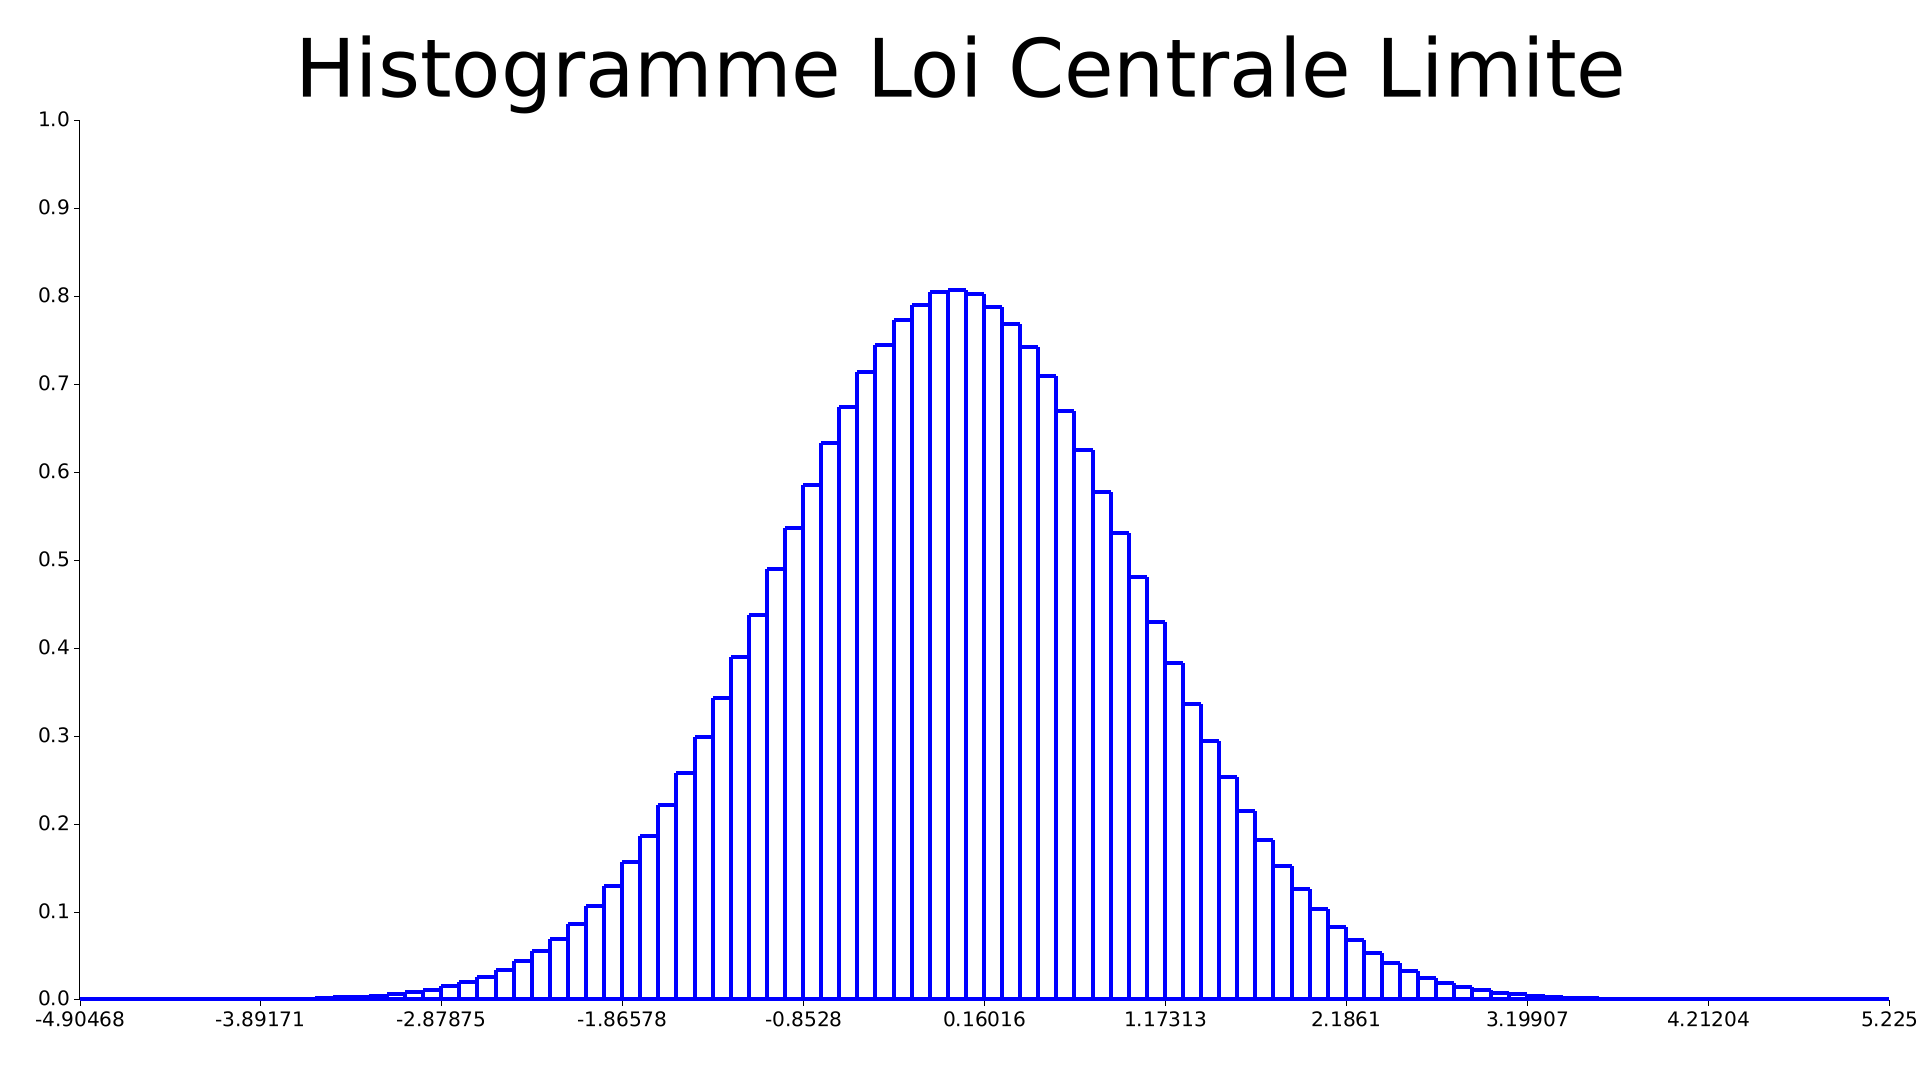
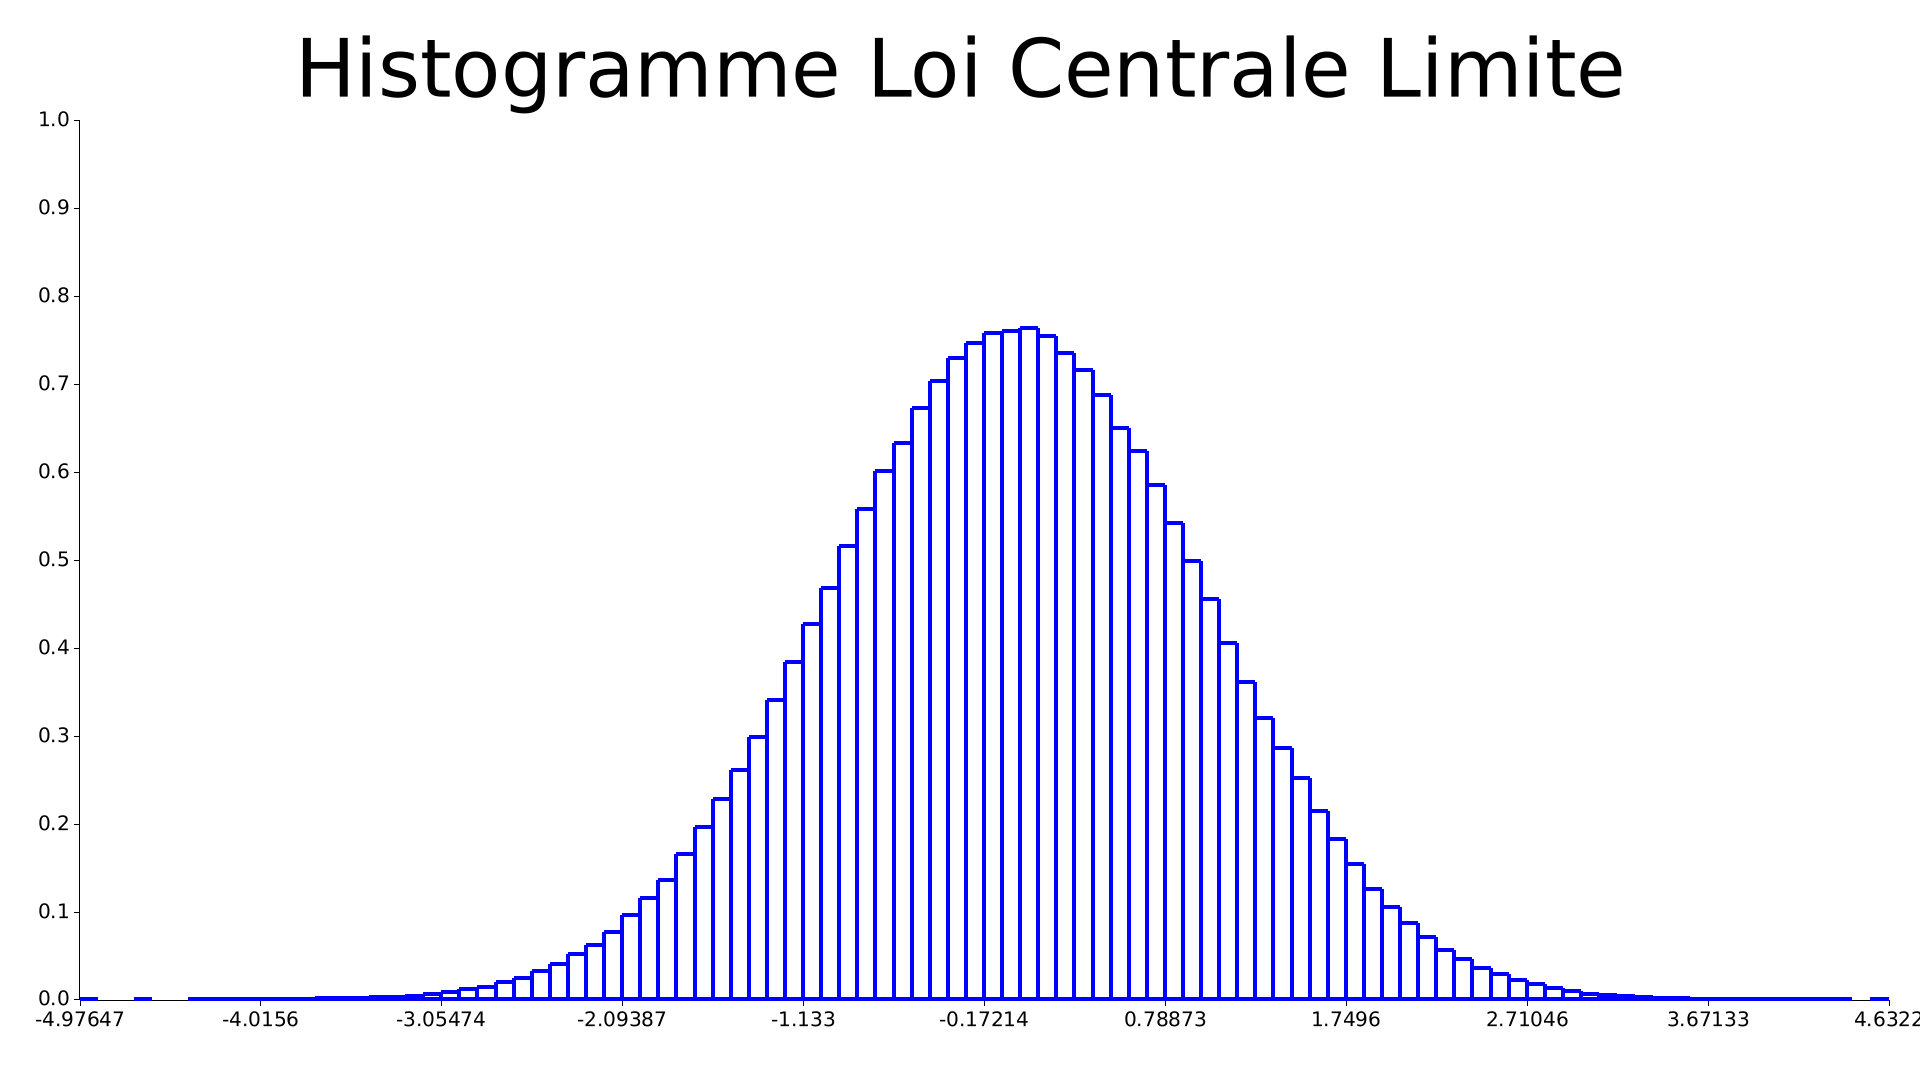
latest

diff --git a/lois_proba/src/analysis.rs b/lois_proba/src/analysis.rs
@@ -1,21 +1,21 @@
 use plotters::prelude::*;
+use std::f64::consts::PI;
+use statrs::distribution::*;
 
-const SCATTER_SAMPLE : usize = 60000;
-const HISTO_SAMPLE : usize = 100;
+const SCATTER_SAMPLE: usize = 60000;
+const HISTO_SAMPLE: usize = 100;
 
-pub fn analyse(data : &Vec<f64>,yscale : f64, name : &str) -> Result<(), Box<dyn std::error::Error>> {
-    scatter_plot(data,name);
-    qq_plot(data,name);
-    histogram_plot(data,yscale,name);
+pub fn analyse(data: &Vec<f64>, yscale: f64, name: &str) -> Result<(), Box<dyn std::error::Error>> {
+    scatter_plot(data, name);
+    qq_plot(data, name);
+    histogram_plot(data, yscale, name);
 
     return Ok(());
 }
 
-
-pub fn scatter_plot(data : &Vec<f64> ,name : &str) -> Result<(), Box<dyn std::error::Error>>{
-
-    let mut max : f64 = 0f64;
-    let mut min : f64 = 0f64;
+pub fn scatter_plot(data: &Vec<f64>, name: &str) -> Result<(), Box<dyn std::error::Error>> {
+    let mut max: f64 = 0f64;
+    let mut min: f64 = 0f64;
     for i in data {
         if *i > max {
             max = *i;
@@ -25,10 +25,14 @@ pub fn scatter_plot(data : &Vec<f64> ,name : &str) -> Result<(), Box<dyn std::er
         }
     }
 
-    let scatter_data : Vec<(f64,f64)> = data[0..SCATTER_SAMPLE].iter().enumerate().map(|(x)|return ((x.0 as f64) / SCATTER_SAMPLE as f64 , *x.1) ).collect();
+    let scatter_data: Vec<(f64, f64)> = data[0..SCATTER_SAMPLE]
+        .iter()
+        .enumerate()
+        .map(|(x)| return ((x.0 as f64) / SCATTER_SAMPLE as f64, *x.1))
+        .collect();
 
-    let path = format!("plots/scatter_{}.png",name);
-    let title = format!("Scatter {}, {} points",name,SCATTER_SAMPLE);
+    let path = format!("plots/scatter_{}.png", name);
+    let title = format!("Scatter {}, {} points", name, SCATTER_SAMPLE);
 
     let root = BitMapBackend::new(&path, (1920, 1080)).into_drawing_area();
     root.fill(&WHITE)?;
@@ -47,23 +51,34 @@ pub fn scatter_plot(data : &Vec<f64> ,name : &str) -> Result<(), Box<dyn std::er
         .draw()?;
 
     scatter_ctx.draw_series(
-        scatter_data.iter()
-            .map(|(x ,y)| Circle::new((*x,*y ), 1, BLUE.filled())),
+        scatter_data
+            .iter()
+            .map(|(x, y)| Circle::new((*x, *y), 1, BLUE.filled())),
     )?;
 
     // To avoid the IO failure being ignored silently, we manually call the present function
     root.present().expect("Unable to write result to file, please make sure 'plotters-doc-data' dir exists under current dir");
 
-
-    return Ok(())
-
+    return Ok(());
 }
 
 //TODO add x = x line
-pub fn qq_plot(data : &Vec<f64>, name: &str)-> Result<(), Box<dyn std::error::Error>> {
-    let mut max : f64 = 0f64;
-    let mut min : f64 = 0f64;
-    for i in data {
+pub fn qq_plot(data: &Vec<f64>, name: &str) -> Result<(), Box<dyn std::error::Error>> {
+    let mut max: f64 = 0f64;
+    let mut min: f64 = 0f64;
+
+    let sample_size = data.len() as usize;
+    let mut qq_data = data.clone();
+
+    let dev = std_deviation(&qq_data).unwrap();
+    let mean = mean(&qq_data).unwrap();
+    let mut normal = Normal::new(mean, dev).unwrap();
+    
+    for i in 0..sample_size {
+        qq_data[i] =  normal.cdf(qq_data[i]) ;
+    }
+
+    for i in &qq_data {
         if *i > max {
             max = *i;
         }
@@ -72,14 +87,15 @@ pub fn qq_plot(data : &Vec<f64>, name: &str)-> Result<(), Box<dyn std::error::Er
         }
     }
 
-
-    let sample_size = data.len() as u32;
-    let mut qq_data = data.clone();
     qq_data.sort_by(|a, b| a.partial_cmp(b).unwrap());
-    let qq_data : Vec<(f64,f64)> = qq_data.iter().enumerate().map(|(x)|return (x.0 as f64 /  sample_size as f64 , *x.1)).collect();
-
-    let path = format!("plots/qqplot_{}.png",name);
-    let title = format!("QQ Plot {}",name);
+    let qq_data: Vec<(f64, f64)> = qq_data
+        .iter()
+        .enumerate()
+        .map(|(x)| return (x.0 as f64 / sample_size as f64, *x.1))
+        .collect();
+        
+    let path = format!("plots/qqplot_{}.png", name);
+    let title = format!("QQ Plot {}", name);
 
     let root = BitMapBackend::new(&path, (1920, 1080)).into_drawing_area();
     root.fill(&WHITE)?;
@@ -98,9 +114,16 @@ pub fn qq_plot(data : &Vec<f64>, name: &str)-> Result<(), Box<dyn std::error::Er
         .draw()?;
 
     scatter_ctx.draw_series(
-        qq_data.iter()
-            .map(|(x ,y)| Circle::new((*x,*y ), 1, BLUE.filled())),
+        qq_data
+            .iter()
+            .map(|(x, y)| Circle::new((*x, *y), 3, BLUE.filled())),
     )?;
+
+    scatter_ctx.draw_series(
+        LineSeries::new(
+        (0..2).map(|x| (x as f64, x as f64)),
+        ShapeStyle { color: RGBAColor(255, 0, 0, 255f64), filled: true, stroke_width: 2 },
+    ))?;
 
     // To avoid the IO failure being ignored silently, we manually call the present function
     root.present().expect("Unable to write result to file, please make sure 'plotters-doc-data' dir exists under current dir");
@@ -108,10 +131,13 @@ pub fn qq_plot(data : &Vec<f64>, name: &str)-> Result<(), Box<dyn std::error::Er
     return Ok(());
 }
 
-pub fn histogram_plot(data : &Vec<f64>, yscale : f64, name: &str)-> Result<(), Box<dyn std::error::Error>> {
-
-    let mut max : f64 = 0f64;
-    let mut min : f64 = 0f64;
+pub fn histogram_plot(
+    data: &Vec<f64>,
+    yscale: f64,
+    name: &str,
+) -> Result<(), Box<dyn std::error::Error>> {
+    let mut max: f64 = 0f64;
+    let mut min: f64 = 0f64;
     for i in data {
         if *i > max {
             max = *i;
@@ -123,8 +149,8 @@ pub fn histogram_plot(data : &Vec<f64>, yscale : f64, name: &str)-> Result<(), B
 
     let sample_size = data.len() as u32;
 
-    let path = format!("plots/histogramme_{}.png",name);
-    let title = format!("Histogramme {}",name);
+    let path = format!("plots/histogramme_{}.png", name);
+    let title = format!("Histogramme {}", name);
 
     let root = BitMapBackend::new(&path, (1920, 1080)).into_drawing_area();
     root.fill(&WHITE)?;
@@ -134,27 +160,61 @@ pub fn histogram_plot(data : &Vec<f64>, yscale : f64, name: &str)-> Result<(), B
         .y_label_area_size(50)
         .margin(30)
         .caption(&title, ("sans-serif", 100.0))
-        .build_cartesian_2d((min..max).step((max-min)/HISTO_SAMPLE as f64).use_floor(), 0f64..1f64)?;
-        histogram_ctx
+        .build_cartesian_2d(
+            (min..max)
+                .step((max - min) / HISTO_SAMPLE as f64)
+                .use_floor(),
+            0f64..1f64,
+        )?;
+    histogram_ctx
         .configure_mesh()
         .disable_x_mesh()
         .disable_y_mesh()
         .label_style(("sans-serif", 25.0))
         .draw()?;
 
-        histogram_ctx.draw_series(
-            Histogram::vertical(&histogram_ctx)
+    histogram_ctx.draw_series(
+        Histogram::vertical(&histogram_ctx)
             .style(BLUE.stroke_width(3))
             .margin(0)
-            .data(data.iter().map(|x| (*x, 1f64/sample_size as f64 * HISTO_SAMPLE as f64 * yscale))),
-        )?;
+            .data(
+                data.iter()
+                    .map(|x| (*x, 1f64 / sample_size as f64 * HISTO_SAMPLE as f64 * yscale)),
+            ),
+    )?;
 
-        // To avoid the IO failure being ignored silently, we manually call the present function
+    // To avoid the IO failure being ignored silently, we manually call the present function
     root.present().expect("Unable to write result to file, please make sure 'plotters-doc-data' dir exists under current dir");
 
     return Ok(());
 }
 
+
+
+fn mean(data: &Vec<f64>) -> Option<f64> {
+    let sum = data.iter().sum::<f64>() as f64;
+    let count = data.len();
+
+    match count {
+        positive if positive > 0 => Some(sum / count as f64),
+        _ => None,
+    }
+}
+
+fn std_deviation(data: &Vec<f64>) -> Option<f64> {
+    match (mean(data), data.len()) {
+        (Some(data_mean), count) if count > 0 => {
+            let variance = data.iter().map(|value| {
+                let diff = data_mean - (*value as f64);
+
+                diff * diff
+            }).sum::<f64>() / count as f64;
+
+            Some(variance.sqrt())
+        },
+        _ => None
+    }
+}
 /*
 Khi2
 Moyenne
@@ -169,4 +229,3 @@ scatter plot DONE
 
 
 */
-

diff --git a/lois_proba/src/main.rs b/lois_proba/src/main.rs
@@ -1,46 +1,132 @@
 mod analysis;
 
-use rand_xoshiro::rand_core::{SeedableRng,RngCore};
+use crate::analysis::*;
+use rand_xoshiro::rand_core::{RngCore, SeedableRng};
 use rand_xoshiro::Xoshiro256PlusPlus;
 use statrs::function::erf::*;
-use crate::analysis::*;
-use std::time::{Instant, Duration};
+use std::f64::consts::PI;
+use std::time::{Duration, Instant};
 
-const BENCHMARK_SIZE : usize = 1000_0000;
+const BENCHMARK_SIZE: usize = 1_000_000;
 
-const SEED : u64 = 555 ;
+const SEED: u64 = 555;
 
 fn main() {
     println!("Hello, world!");
 
     let mut xoshiro = Xoshiro256PlusPlus::seed_from_u64(SEED);
 
-/* 
-    let mut vec_loi = vec![0f64;BENCHMARK_SIZE];
+    let mut vec_loi = vec![0f64; BENCHMARK_SIZE];
+    let now = Instant::now();
     for i in 0..BENCHMARK_SIZE {
-        vec_loi[i] =  f64::sqrt(2f64)* erf_inv(2f64*normalize(xoshiro.next_u32())- 1f64);
+        vec_loi[i] = f64::sqrt(2f64) * erf_inv(2f64 * normalize(xoshiro.next_u64()) - 1f64);
     }
-    analyse(&vec_loi,0.2f64,"Loi Inverse");*/
+    print_info(&vec_loi,now.elapsed(),"Methode Inverse");
+    analyse(&vec_loi, 0.2f64, "Methode Inverse");
 
 
-    let mut vec_centrale_limite = vec![0f64;BENCHMARK_SIZE];
-    let n = 1000;
+    let mut vec_centrale_limite = vec![0f64; BENCHMARK_SIZE];
+    let n = 100;
     let now = Instant::now();
     for i in 0..BENCHMARK_SIZE {
         let mut somme = 0f64;
         for _j in 0..n {
-            somme += normalize(xoshiro.next_u32());
+            somme += normalize(xoshiro.next_u64());
         }
-        vec_centrale_limite[i] =  (somme - n as f64/2f64) / f64::sqrt(n as f64/12f64)
+        vec_centrale_limite[i] = (somme - n as f64 / 2f64) / f64::sqrt(n as f64 / 12f64)
     }
-    print!("temps : {:?}",now.elapsed());
-    analyse(&vec_centrale_limite,0.2f64,"Loi Centrale Limite");
+    print_info(&vec_centrale_limite,now.elapsed(),"Loi Centrale Limite");
+    analyse(&vec_centrale_limite, 0.2f64, "Loi Centrale Limite");
+
+    let mut vec_box_muller = vec![0f64; BENCHMARK_SIZE];
+    let now = Instant::now();
+    for i in 0..(BENCHMARK_SIZE / 2) {
+        let x = normalize(xoshiro.next_u64());
+        let y = normalize(xoshiro.next_u64());
+
+        vec_box_muller[2 * i] = f64::sqrt(-2f64 * f64::ln(x)) * f64::cos(2f64 * PI * y);
+        vec_box_muller[2 * i + 1] = f64::sqrt(-2f64 * f64::ln(x)) * f64::sin(2f64 * PI * y);
+    }
+    print_info(&vec_box_muller,now.elapsed(),"Methode de Box et Muller");
+    analyse(&vec_box_muller, 0.2f64, "Methode de Box et Muller");
+
+    let mut vec_marsaglia = vec![0f64; BENCHMARK_SIZE];
+    let now = Instant::now();
+    for i in 0..(BENCHMARK_SIZE / 2) {
+        let mut x: f64;
+        let mut y: f64;
+        let mut s: f64;
+        loop {
+            x = (normalize(xoshiro.next_u64()) - 0.5f64) * 2f64;
+            y = (normalize(xoshiro.next_u64()) - 0.5f64) * 2f64;
+            s = x * x + y * y;
+            if s > 0f64 && s < 1f64 {
+                break;
+            }
+        }
+        vec_marsaglia[2 * i] = x * (f64::sqrt((-2f64 * f64::ln(s)) / s));
+        vec_marsaglia[2 * i + 1] = y * (f64::sqrt((-2f64 * f64::ln(s)) / s));
+    }
+    print_info(&vec_marsaglia,now.elapsed(),"Methode de Marsaglia");
+    analyse(&vec_marsaglia, 0.2f64, "Methode de Marsaglia");
 
 
+    let mut vec_laplace = vec![1f64; BENCHMARK_SIZE];
+    let now = Instant::now();
+    for i in 0..BENCHMARK_SIZE {
+        loop {
+            let a = normalize(xoshiro.next_u64());
+            let u = normalize(xoshiro.next_u64());
+            let y = f64::signum(a - 0.5f64)*f64::ln(1f64-2f64*f64::abs(a- 0.5f64));
+            let f = f64::exp(-(y*y)/2f64)/ f64::sqrt(2f64 * PI);
+            let g = 0.5f64* f64::exp(- f64::abs(y));
+            let c = 2f64*f64::sqrt(f64::exp(1f64)/(2f64 * PI));
 
+            if c * g * u <= f {
+                if(y == 0f64) {
+                    println!("zero");
+                }
+                vec_laplace[i] = y;
+                break;
+            }
+        }
+    }
+    print_info(&vec_laplace,now.elapsed(),"Methode du rejet - Laplace");
+    analyse(&vec_laplace, 0.2f64, "Methode du rejet - Laplace");
 
 }
 
-fn normalize(input : u32) -> f64 {
-    return input as f64 / u32::MAX as f64;
+fn normalize(input: u64) -> f64 {
+    return input as f64 / u64::MAX as f64;
+}
+
+fn mean(data: &Vec<f64>) -> Option<f64> {
+    let sum = data.iter().sum::<f64>() as f64;
+    let count = data.len();
+
+    match count {
+        positive if positive > 0 => Some(sum / count as f64),
+        _ => None,
+    }
+}
+
+fn std_deviation(data: &Vec<f64>) -> Option<f64> {
+    match (mean(data), data.len()) {
+        (Some(data_mean), count) if count > 0 => {
+            let variance = data.iter().map(|value| {
+                let diff = data_mean - (*value as f64);
+
+                diff * diff
+            }).sum::<f64>() / count as f64;
+
+            Some(variance.sqrt())
+        },
+        _ => None
+    }
+}
+
+fn print_info(vec : &Vec<f64>,dur :Duration,nom : &str) {
+    let dev = std_deviation(vec).unwrap();
+    let mean = mean(vec).unwrap();
+    println!("{} : Esperance: {} , Ecart-type: {} , Temps de calcul: {:?} : {:?} par iter ",nom,mean,dev,dur,dur/BENCHMARK_SIZE as u32)
 }
